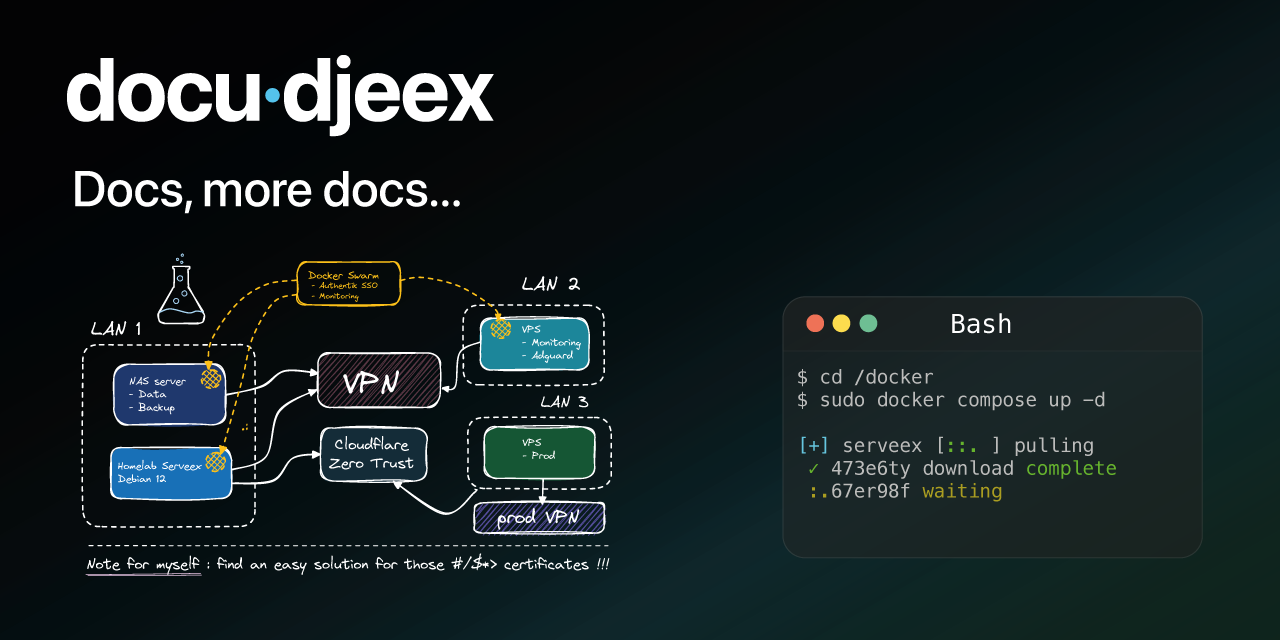
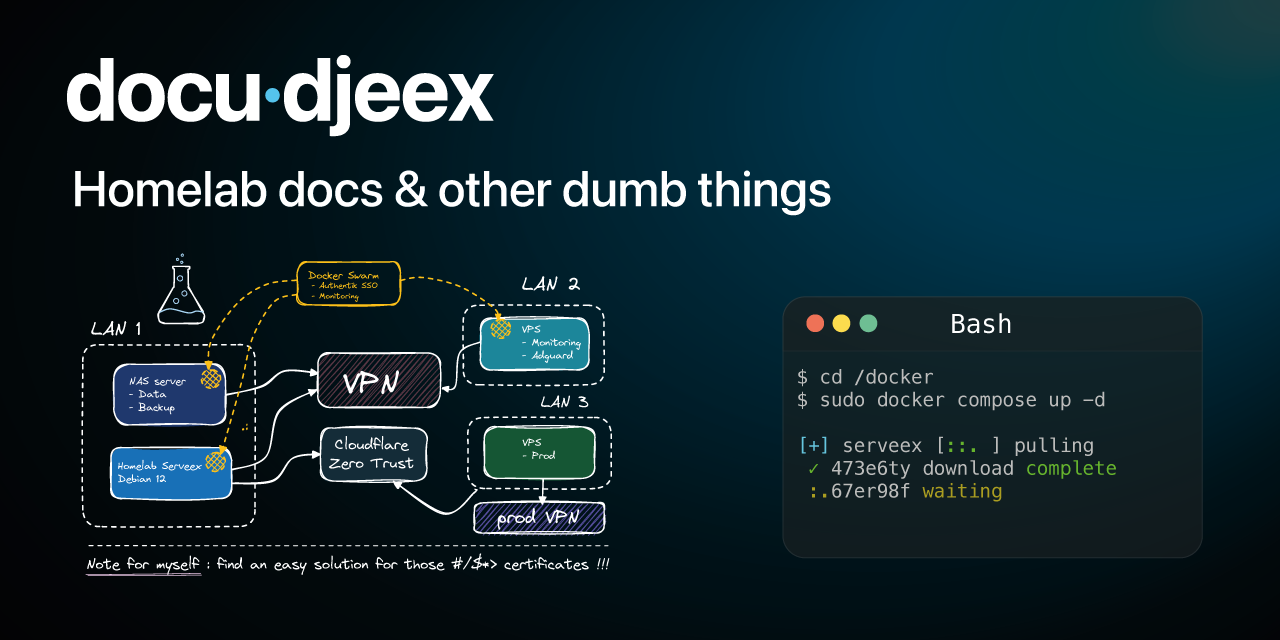
Restore the landing page og:image and update the README tagline

diff --git a/README.md b/README.md
@@ -5,7 +5,7 @@
 [![Uptime-Kuma](https://stats.djeex.fr/api/badge/23/status?style=for-the-badge)](https://docu.djeex.fr/)
 </p>
 
-# 🔧 Docs, more docs
+# 🔧 Homelab docs & other dumb things
 
 **Docu·djeex** is first and foremost a personal project aimed at self-hosting as many everyday services as possible, without relying on proprietary platforms (Google, Apple, Netflix, etc.).
 This documentation site is built using [Nuxt.js](https://nuxt.com/), on the [Docus](https://docus.dev) theme (Nuxt UI + Nuxt Content).
